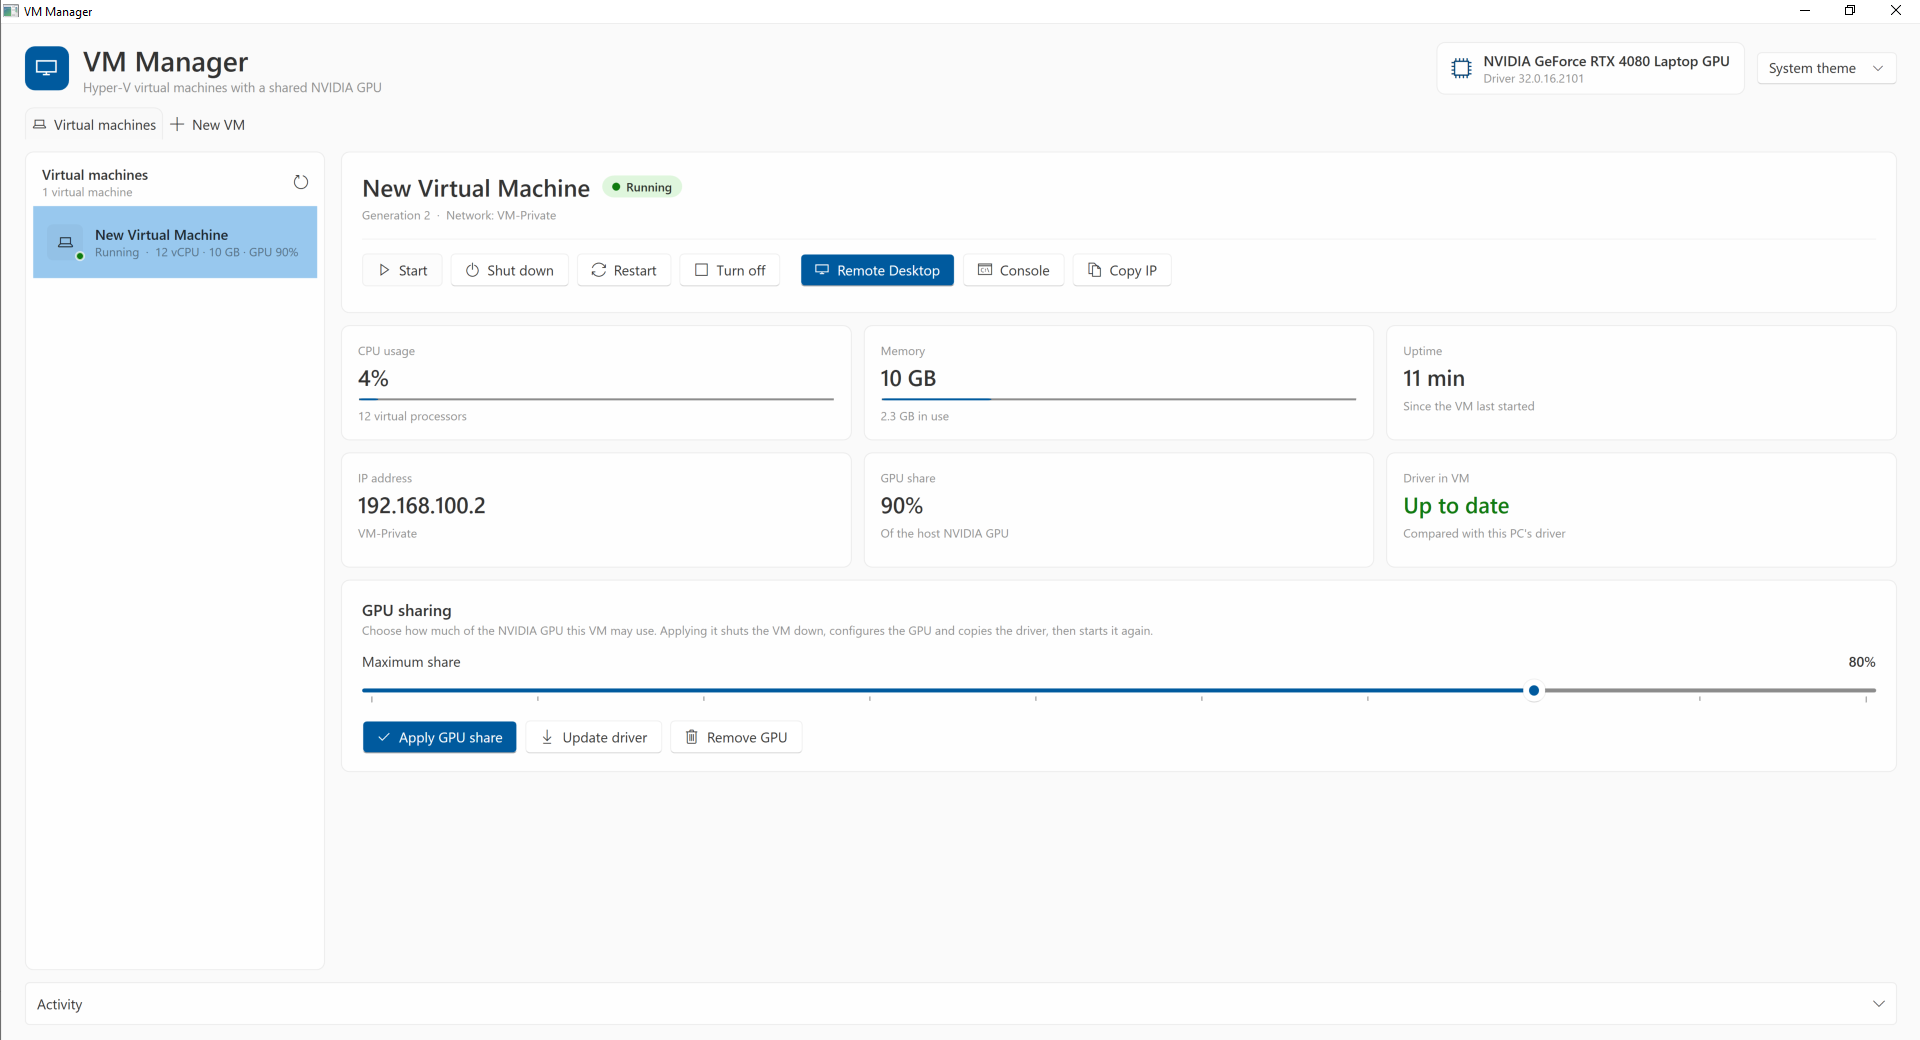
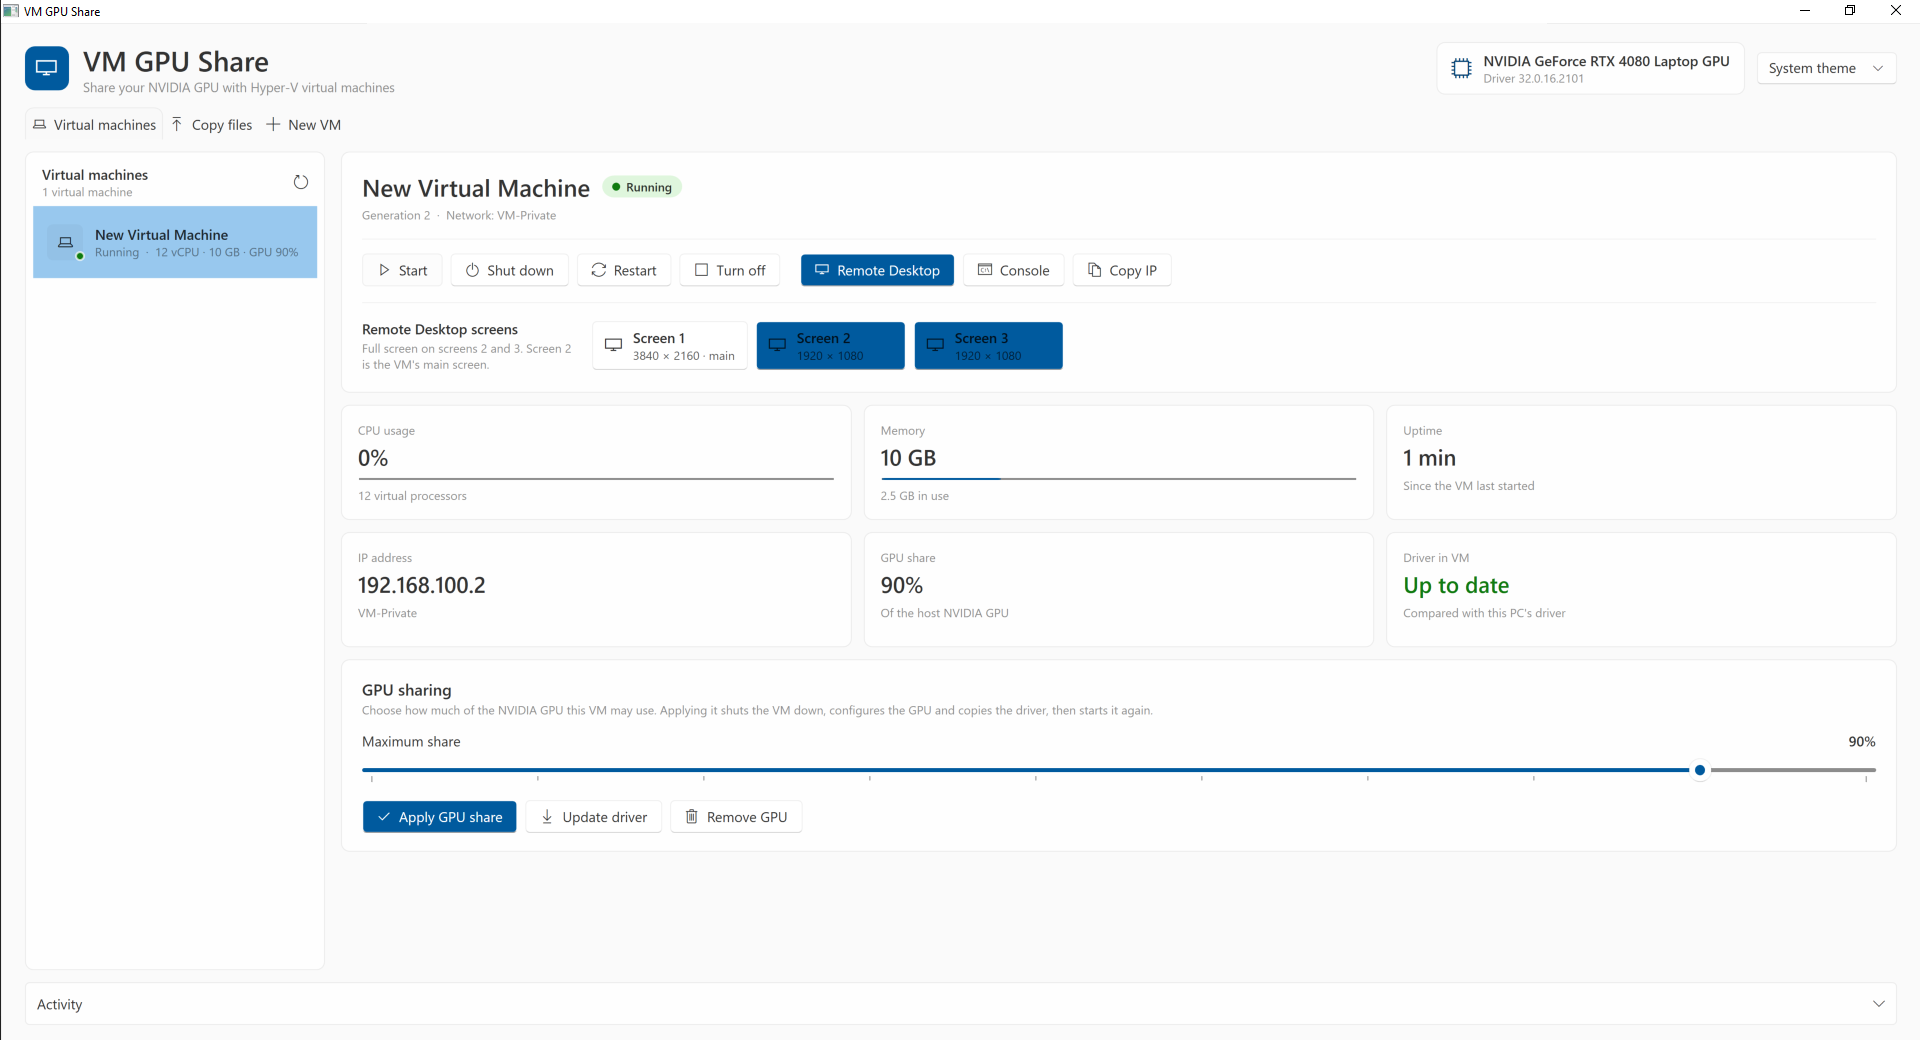
README: update screenshot to show Remote Desktop screens

diff --git a/README.md b/README.md
@@ -3,7 +3,7 @@
 **Share your NVIDIA graphics card with Hyper-V virtual machines.**
 Run 3D apps, CAD and GPU software inside a VM, at near-native speed, with a few clicks.
 
-![VM GPU Share showing a running VM with live stats and GPU sharing](docs/screenshot.png)
+![VM GPU Share showing a running VM with Remote Desktop screens, live stats and GPU sharing](docs/screenshot.png)
 
 ### [⬇ Download the latest version](../../releases/latest)
 
